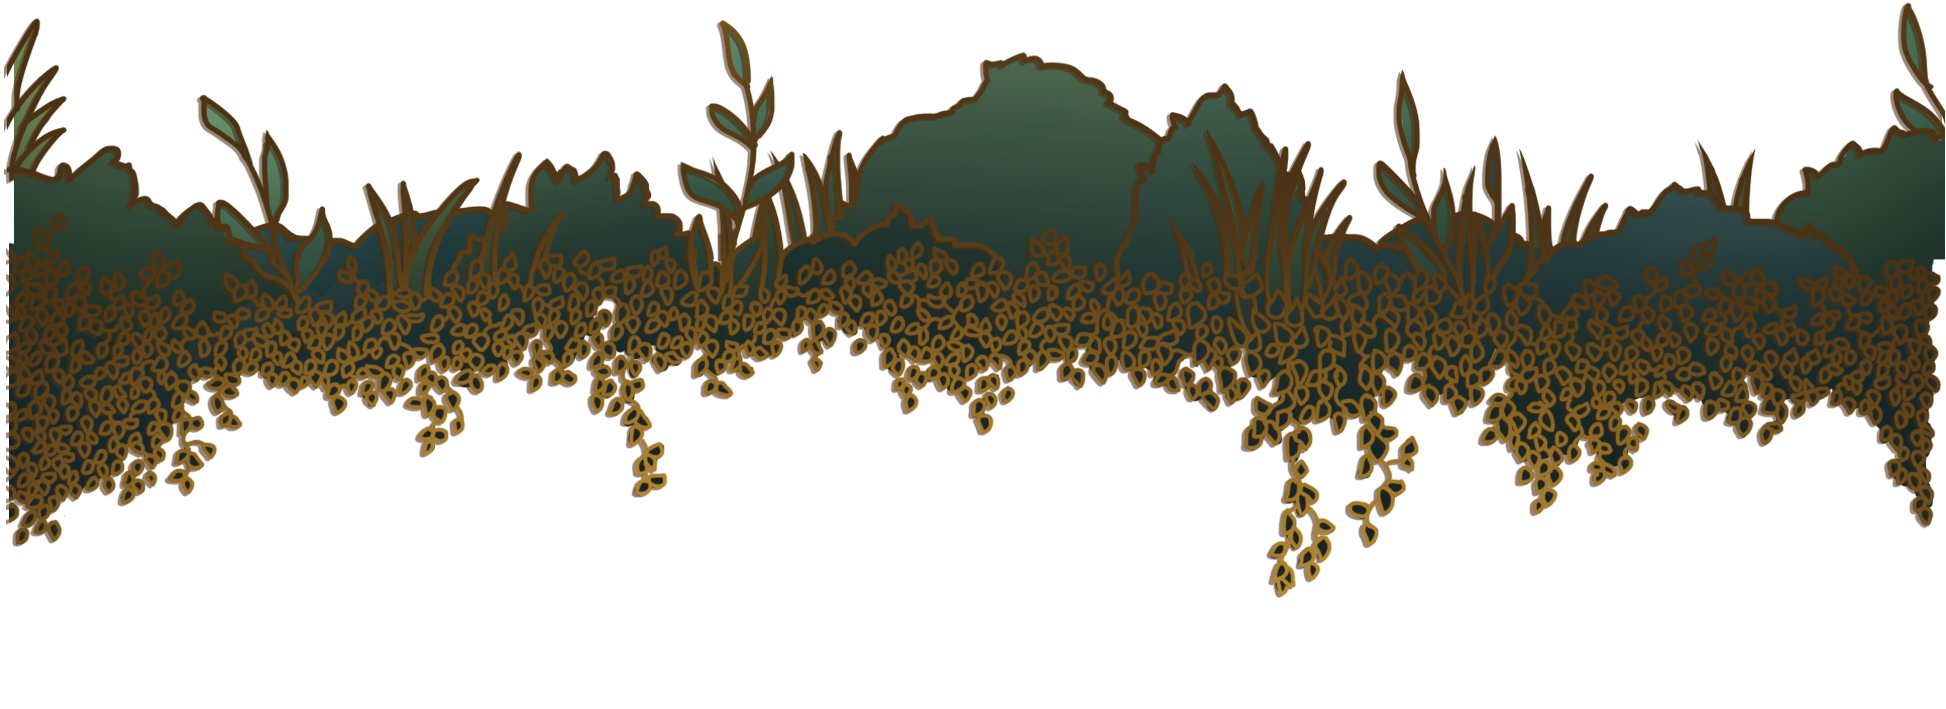
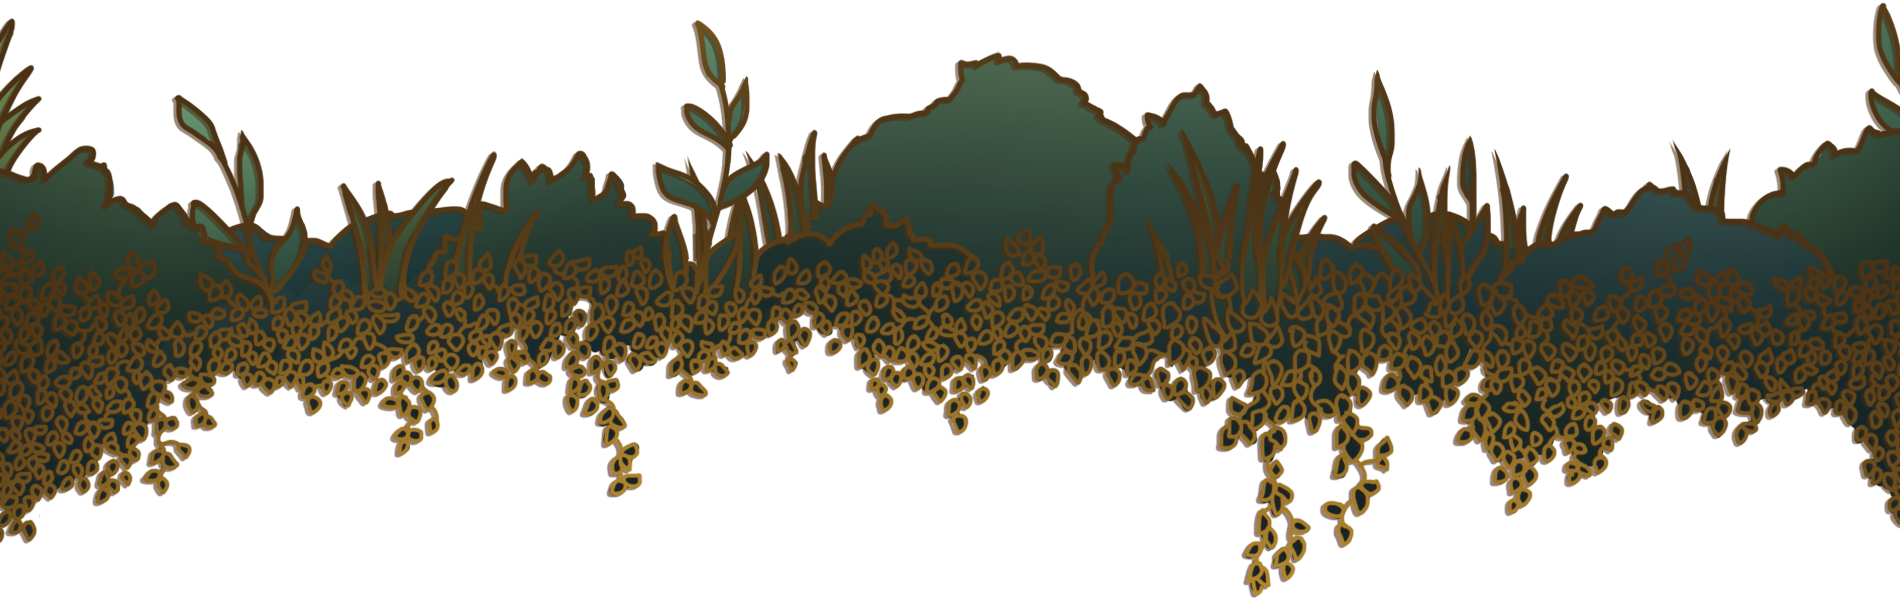
Got one divider working

diff --git a/assets/css/main.css b/assets/css/main.css
@@ -2381,6 +2381,19 @@ input, select, textarea {
 			font-family: 'Font Awesome 5 Brands';
 		}
 
+/* Divider */
+
+		#divider {
+			position: absolute;
+			z-index: 10;
+			transform: translateY(-200px);
+		}
+
+		.divider {
+			height: 28em;
+			width: auto;
+		}
+
 /* Header */
 
 	#header {
@@ -2390,9 +2403,9 @@ input, select, textarea {
 		margin: 0;
 		background-image: url("../../images/pillar-02.png"), url("../../images/pillar-02-flipped.png"), url("../../images/pillar.png"), url("../../images/pillar_flipped.png"), url("../../images/header-02.png");
 		/* filter:brightness(80%); */
-		background-size: clamp(1em, 15%, 40em), clamp(10em, 15%, 40em), clamp(1em, 3.65%, 30em), clamp(1em, 3.65%, 30em), cover;
-		background-position: left top, right top, left center, right center, center;
-		background-repeat: no-repeat, no-repeat, repeat-y, repeat-y, no-repeat;
+		background-size:clamp(1em, 15%, 40em), clamp(10em, 15%, 40em), clamp(1em, 3.65%, 30em), clamp(1em, 3.65%, 30em), cover;
+		background-position:  left top, right top, left center, right center, center;
+		background-repeat:  no-repeat, no-repeat, repeat-y, repeat-y, no-repeat;
 		text-align: center;
 		color: #003d7a;
 	}

diff --git a/index.html b/index.html
@@ -77,6 +77,10 @@
 
 				</header>
 			</section>
+
+			<div id="divider">
+				<img src="../../images/divider-01.png" class="divider">
+			</div>
 			
 			<section id="first" class="main">
 				<div class="content featured dark style1">
